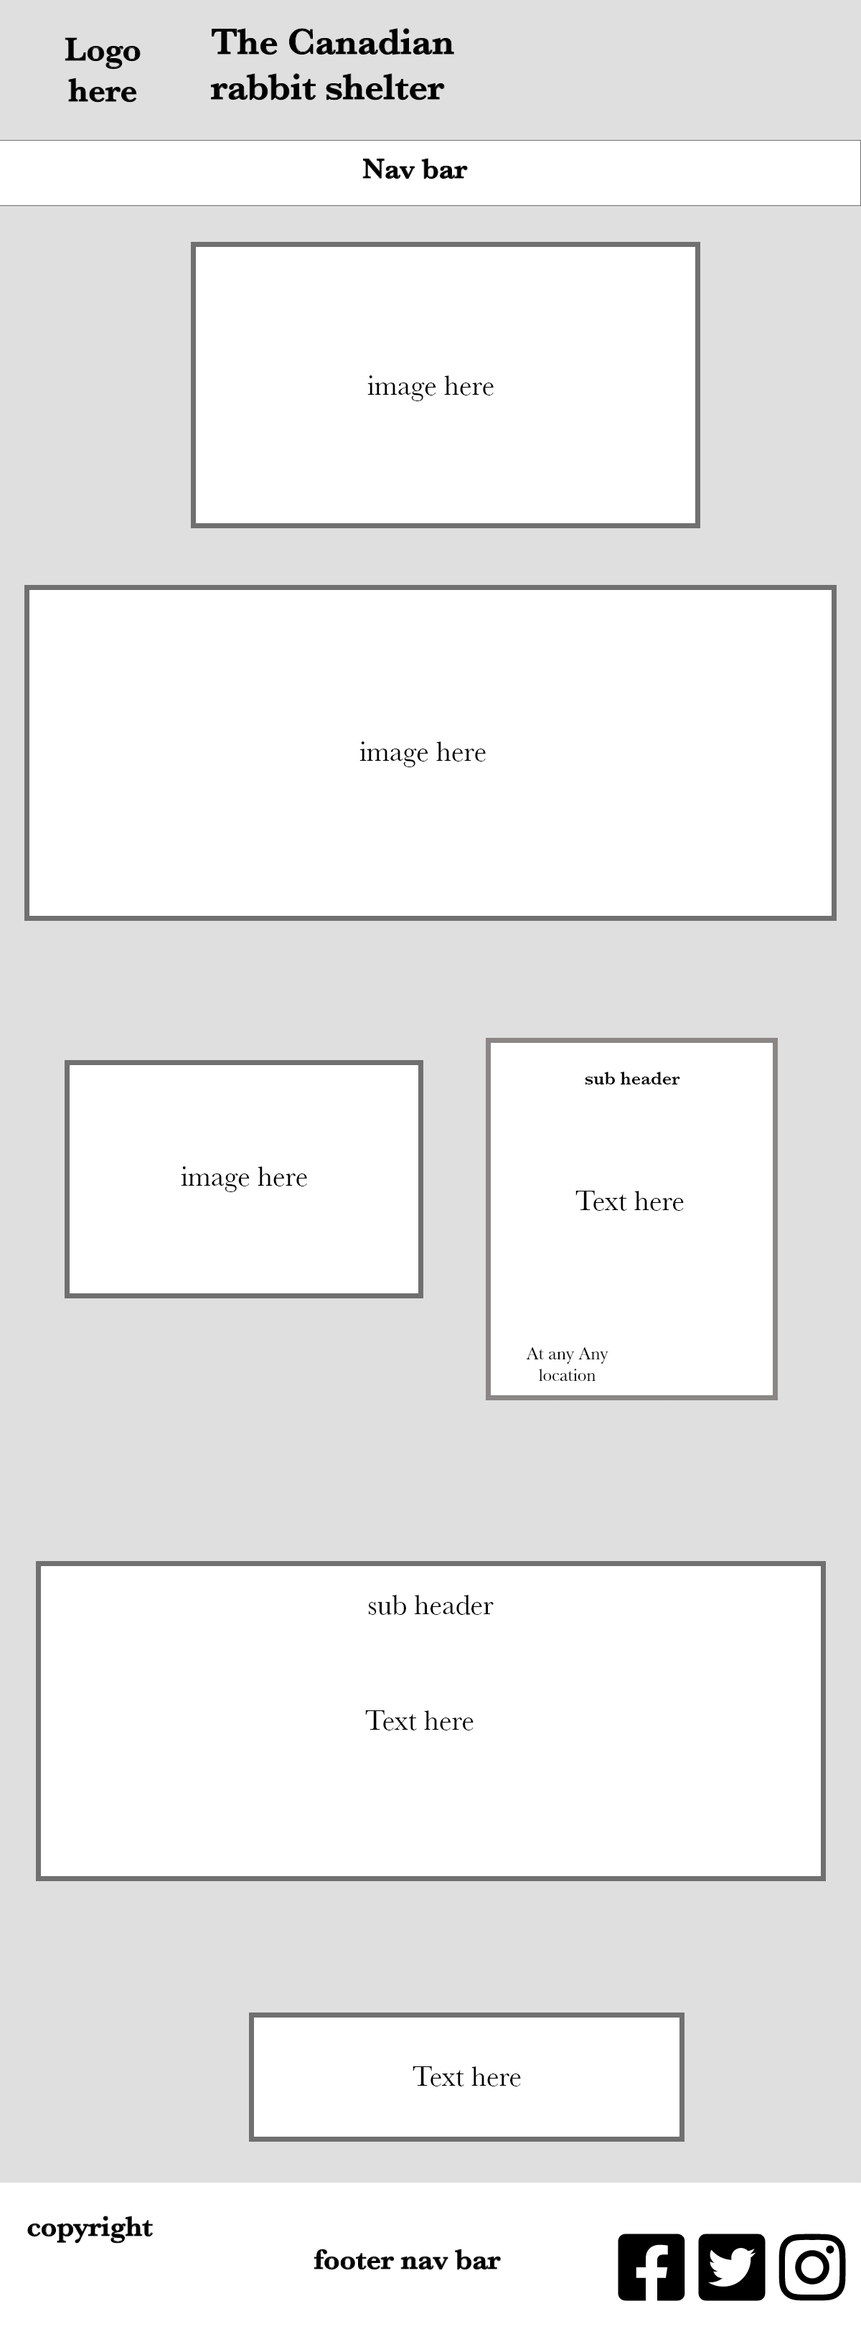
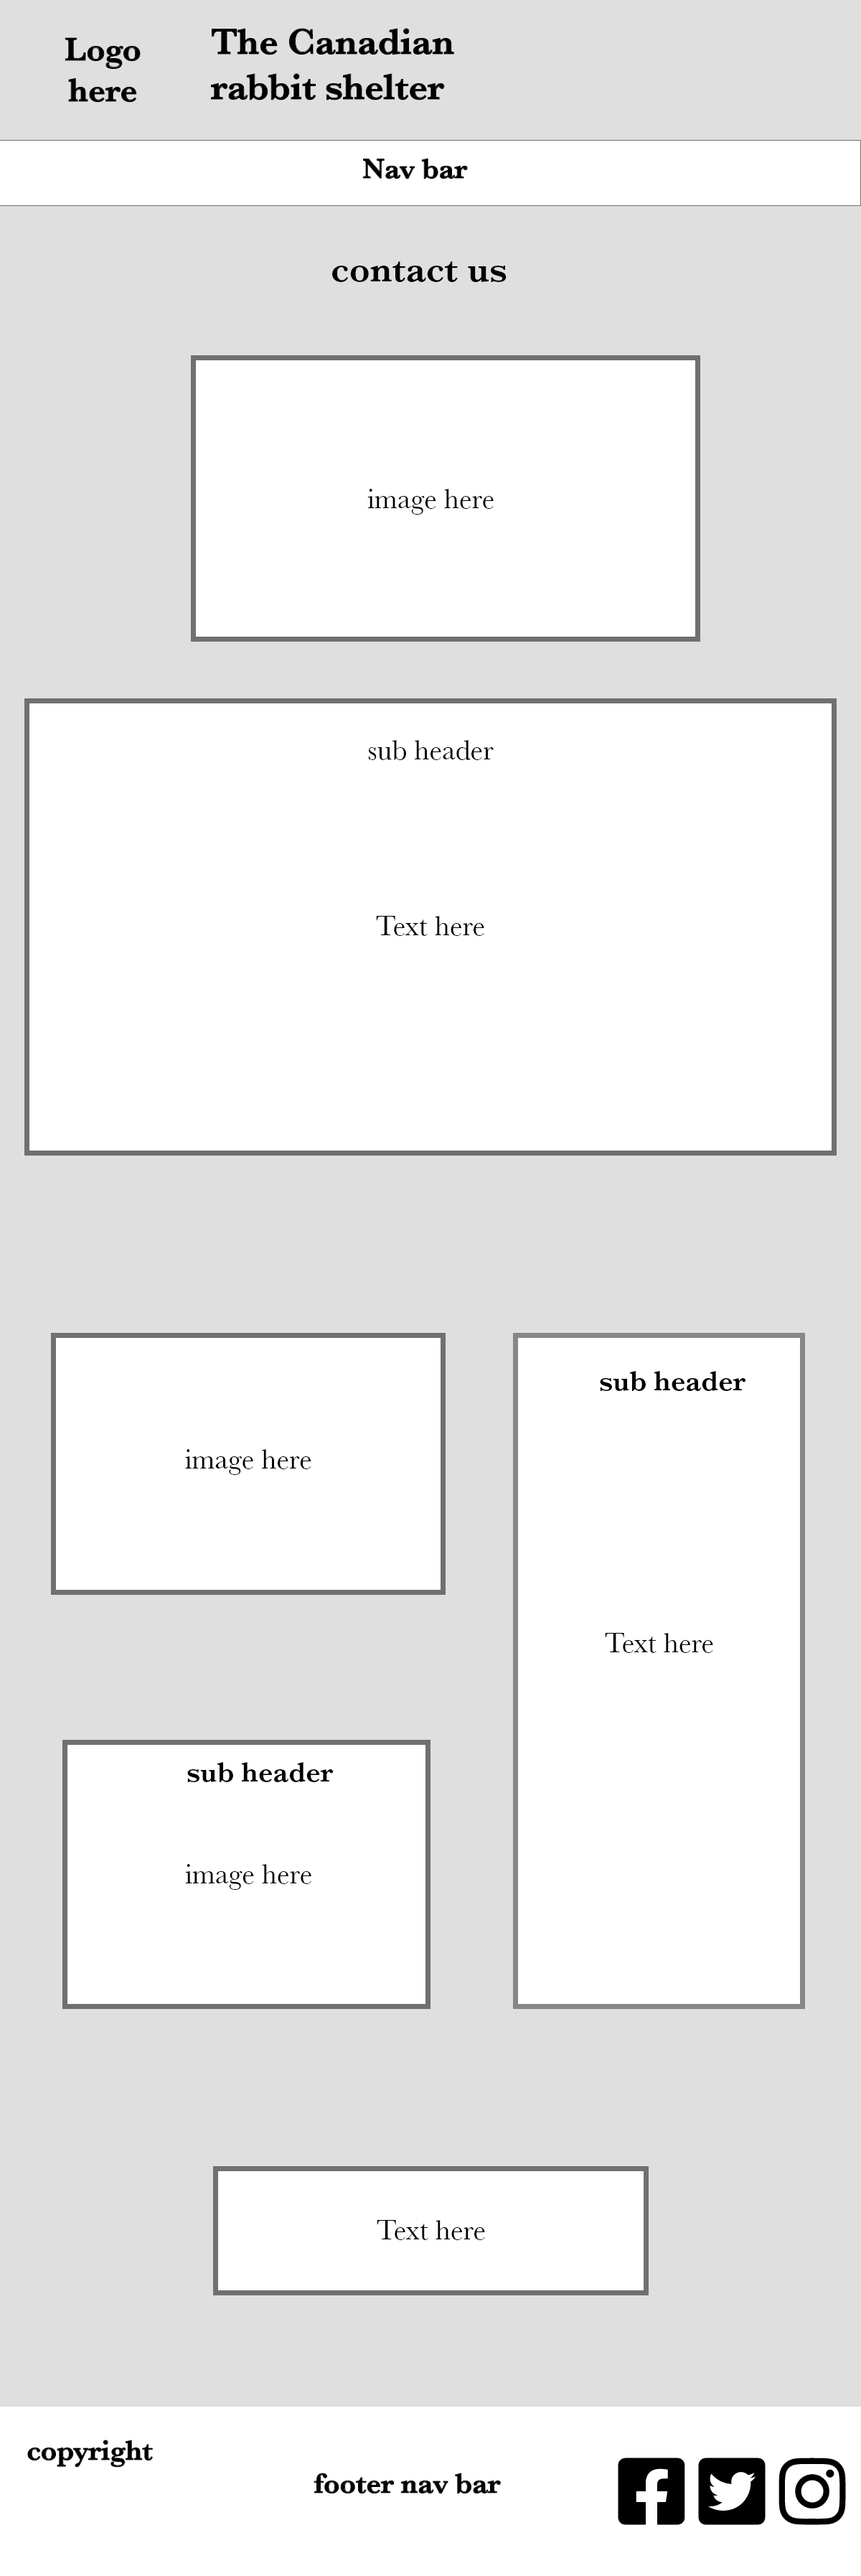
Text&wireframe

diff --git a/rabbits/site-plan-rabbit.html b/rabbits/site-plan-rabbit.html
@@ -254,6 +254,48 @@ Home, Adoption, Contact Us
       Home, Adoption, Contact Us
       </P>
 
+      <p>
+        Contact Us
+      </p>
+
+      <p>
+        Requirements
+      </p>
+      <p>
+       part time: Must have the proper background checks.
+Must be gentle and kind to bunnies. 
+Must be able to listen to instructions on how to feed and groom them or any other special needs.
+Must not be allergic.
+</p>
+
+<p>
+  full time: Must have the proper background checks. 
+  More intensive care of rabbits requires certified vet credentials or a college or university degree.
+  Must have proper driver licensing for transporting goods and donations.
+  Business and management degrees and experience would be welcome. 
+  </p>
+
+  <p>
+    How To Help 
+  </p>
+  <p>
+    10:00 AM - 1:00 PM, 5:00 PM - 8:00 PM
+  </p>
+  <p>
+    Volunteer At any  location
+  </p>
+  <p>
+    Donate, Support, Host An Event
+  </p>
+
+  <p>
+    important Info
+  </p>
+  <p>
+    shelter@rabbit.com, 780-335-2319, Fax: 780-479-8946 
+  </p>
+
+
 
       <p>Images for the Page 3</p>
       <img src="images/volunteer.jpg" alt="image for page3">
@@ -283,7 +325,7 @@ Home, Adoption, Contact Us
     <p>         
       [Any additional details about page 3 that the wireframe does not make clear]
     </p>
-    <img src="#" alt="page 3 wireframe">
+    <img src="images/thecanadianrabbitshelterwireframe – 3.jpg" alt="page 3 wireframe">
   </main>
 </body>
 
